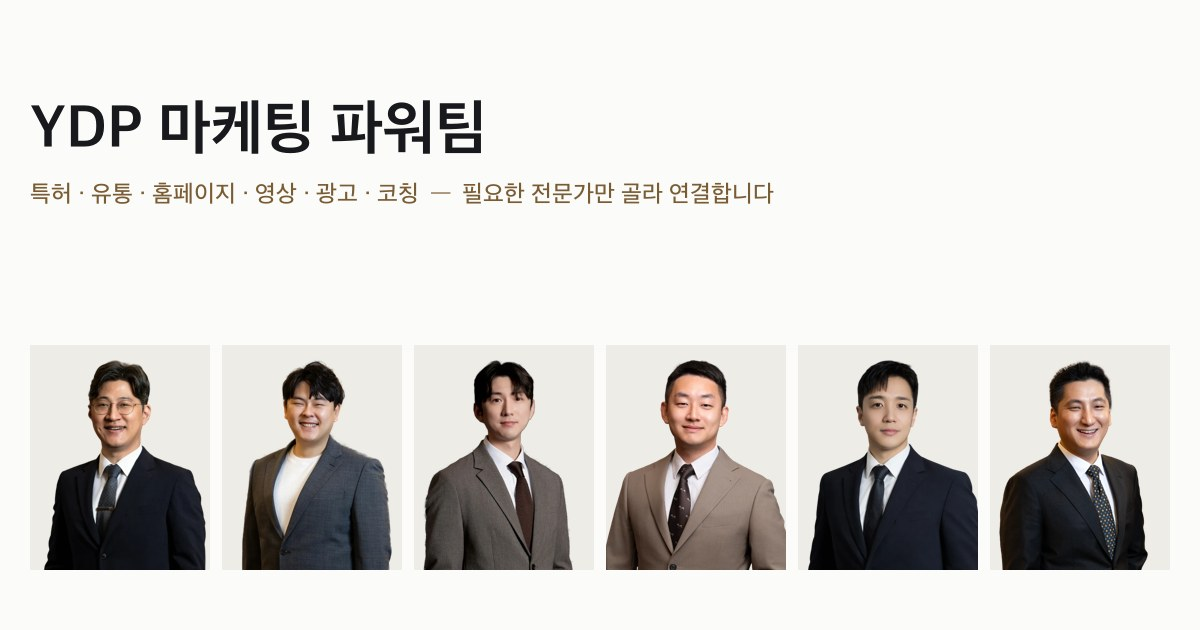
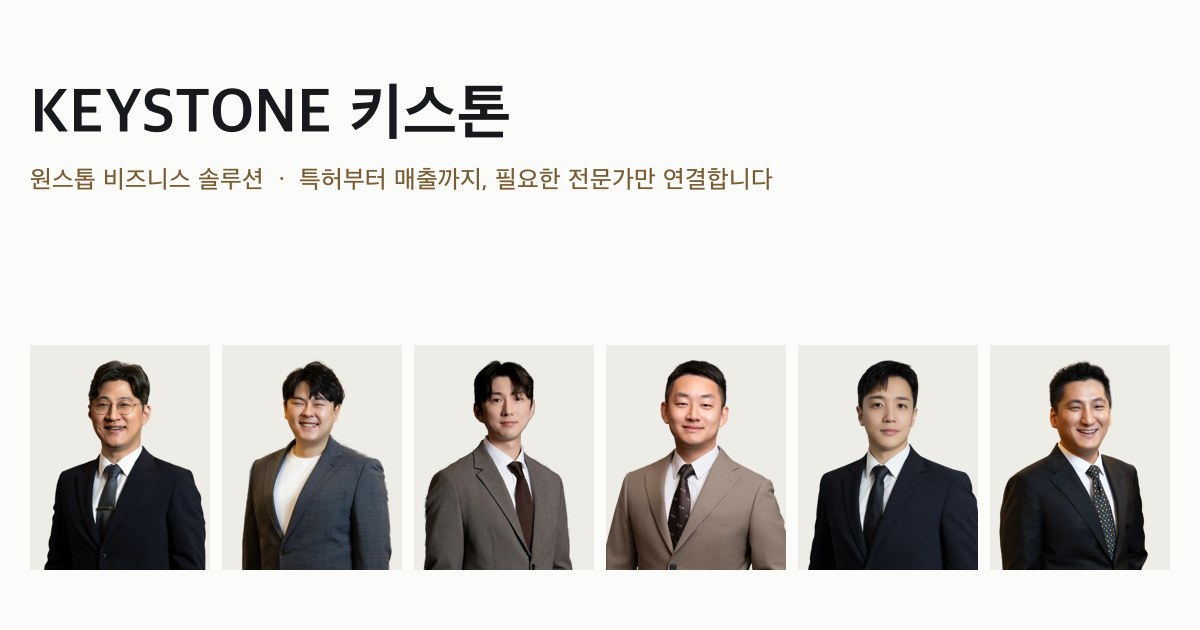
키스톤 KEYSTONE 리네이밍, 연락 버튼 그리드 정리

Changed region(s): [[0.0308, 0.1206, 0.6475, 0.3317]]

diff --git a/index.html b/index.html
@@ -3,15 +3,15 @@
 <head>
 <meta charset="utf-8">
 <meta name="viewport" content="width=device-width, initial-scale=1, viewport-fit=cover">
-<meta name="description" content="특허·유통·홈페이지·영상·광고·코칭. BNI YDP 프로페셔널 챕터 마케팅 파워팀 6인. 필요한 전문가만 골라 연결합니다.">
+<meta name="description" content="키스톤 KEYSTONE · 원스톱 비즈니스 솔루션. 특허·유통·홈페이지·영상·광고·코칭, 필요한 전문가만 골라 연결합니다.">
 <meta property="og:type" content="website">
-<meta property="og:title" content="YDP 마케팅 파워팀">
-<meta property="og:description" content="특허·유통·홈페이지·영상·광고·코칭. 필요한 전문가만 골라 연결합니다.">
+<meta property="og:title" content="키스톤 KEYSTONE · 원스톱 비즈니스 솔루션">
+<meta property="og:description" content="사업의 빠진 한 조각을 채웁니다. 특허·유통·홈페이지·영상·광고·코칭, 필요한 전문가만 골라 연결합니다.">
 <meta property="og:image" content="https://nj103024-art.github.io/ydp-powerteam/og.jpg">
 <meta property="og:url" content="https://nj103024-art.github.io/ydp-powerteam/">
 <meta name="twitter:card" content="summary_large_image">
 <style>:root{padding-top:env(safe-area-inset-top,0px);padding-bottom:env(safe-area-inset-bottom,0px)}body{margin:0}img{max-width:100%}[hidden]{display:none!important}</style>
-<title>YDP 마케팅 파워팀</title>
+<title>키스톤 KEYSTONE</title>
 <link rel="preconnect" href="https://fonts.googleapis.com">
 <link rel="preconnect" href="https://fonts.gstatic.com" crossorigin>
 <link rel="stylesheet" href="https://fonts.googleapis.com/css2?family=Hahmlet:wght@200;300;500;700&family=IBM+Plex+Sans+KR:wght@400;500;600&family=IBM+Plex+Mono:wght@400;500&display=swap">
@@ -232,6 +232,14 @@ section + section{border-top:1px solid var(--line)}
 .big-n{font-family:var(--f-display)!important;font-weight:200;font-size:30px!important;color:var(--ink)!important;letter-spacing:-.02em}
 .clients{display:grid;grid-template-columns:repeat(5,minmax(0,1fr));gap:1px;background:var(--line);border:1px solid var(--line)}
 .clients span{background:var(--paper);padding:18px 12px;text-align:center;font-weight:600;font-size:14px;color:var(--ink-2)}
+.cta{justify-items:stretch}
+.cta-grid{display:grid;grid-template-columns:repeat(3,minmax(0,1fr));gap:12px;margin-top:12px}
+.cta-grid a{display:grid;grid-template-columns:52px 1fr auto;gap:14px;align-items:center;border:1px solid var(--line);padding:14px 18px;text-decoration:none;border-radius:3px;transition:border-color .2s,background .2s}
+.cta-grid a:hover{border-color:var(--ink);background:var(--panel)}
+.cta-grid img{width:52px;height:52px;border-radius:50%;object-fit:cover;object-position:50% 12%;background:var(--studio)}
+.cta-grid b{font-family:var(--f-display);font-weight:500;font-size:17px;display:block}
+.cta-grid span{font-size:13px;color:var(--mute)}
+.cta-grid i{font-style:normal;color:var(--mute)}
 .chips{display:flex;flex-wrap:wrap;gap:8px}
 .chip{border:1px solid var(--line);padding:6px 12px;border-radius:999px;font-size:13px;color:var(--ink-2)}
 
@@ -261,6 +269,7 @@ footer .wrap{display:flex;flex-wrap:wrap;gap:8px 24px;justify-content:space-betw
 @media (max-width:900px){
   .pgrid,.packs,.needs{grid-template-columns:1fr 1fr}
   .cases{grid-template-columns:1fr}
+  .cta-grid{grid-template-columns:repeat(2,minmax(0,1fr))}
   .clients{grid-template-columns:repeat(3,minmax(0,1fr))}
   .awards,.vids,.feats{grid-template-columns:1fr 1fr}
   .stats{grid-template-columns:1fr 1fr}
@@ -274,7 +283,7 @@ footer .wrap{display:flex;flex-wrap:wrap;gap:8px 24px;justify-content:space-betw
   .flow::before{left:37px;right:auto;top:20px;bottom:20px;width:1px;height:auto}
   .step{grid-template-columns:76px 1fr;justify-items:start;text-align:left;column-gap:16px;row-gap:2px;padding:10px 0}
   .step .dot{grid-row:1/4}
-  .pgrid,.packs,.two,.pairs,.contact,.cases,.needs,.rec{grid-template-columns:1fr}
+  .pgrid,.packs,.two,.pairs,.contact,.cases,.needs,.rec,.cta-grid{grid-template-columns:1fr}
   .clients{grid-template-columns:repeat(2,minmax(0,1fr))}
   .proc,.steps{grid-template-columns:1fr 1fr}
   .m-hero{grid-template-columns:1fr}
@@ -289,12 +298,12 @@ footer .wrap{display:flex;flex-wrap:wrap;gap:8px 24px;justify-content:space-betw
 <body>
 <header class="bar">
   <div class="wrap">
-    <a class="brand" href="#home">YDP 마케팅 파워팀<small>BNI</small></a>
+    <a class="brand" href="#home">KEYSTONE 키스톤<small>원스톱 비즈니스 솔루션</small></a>
     <nav class="nav" id="nav" aria-label="파트너"></nav>
   </div>
 </header>
 <main id="app"></main>
-<footer><div class="wrap"><span>BNI YDP 프로페셔널 챕터 · 마케팅 파워팀</span><span>2026</span></div></footer>
+<footer><div class="wrap"><span>KEYSTONE 키스톤 · BNI YDP 프로페셔널 챕터 파워팀</span><span>2026</span></div></footer>
 
 <script>
 const M = {
@@ -396,9 +405,9 @@ function nav(cur){
 function home(){
   return `
   <div class="wrap hero">
-    <p class="eyebrow">BNI YDP Professional · Marketing Power Team</p>
-    <h1>사업에 필요한 여섯 전문가,<br><b>한 번의 미팅으로.</b></h1>
-    <p class="lead">특허, 유통, 홈페이지, 영상, 광고, 코칭. 대표님이 따로따로 찾던 여섯 파트너가 한 팀으로 움직입니다. 창구는 하나, 결과는 끝까지.</p>
+    <p class="eyebrow">KEYSTONE · 원스톱 비즈니스 솔루션</p>
+    <h1>사업의 빠진 한 조각,<br><b>키스톤이 채웁니다.</b></h1>
+    <p class="lead">키스톤은 아치 한가운데서 전체를 받치는 돌입니다. 특허, 유통, 홈페이지, 영상, 광고, 코칭까지. 여섯 전문가 중 지금 필요한 사람만 골라 연결합니다. 특허부터 매출까지, 창구는 하나입니다.</p>
     <div class="roster">${ORDER.map(k=>`<a href="#${k}"><div class="ph"><img src="${pimg(k)}" alt="${M[k].name} 대표"></div><b>${M[k].name}</b><span>${esc(M[k].short)}</span></a>`).join("")}</div>
   </div>
 
@@ -451,8 +460,8 @@ function home(){
   <section><div class="wrap cta">
     <p class="eyebrow">Start</p>
     <h2>어디서부터 시작할지 모르겠다면,<br><b>아무 대표에게나 연락하세요.</b></h2>
-    <p style="color:var(--ink-2);max-width:560px">누구에게 연락하셔도 파워팀 전체가 함께 봅니다. 각 대표 페이지에 연락처가 있습니다.</p>
-    <div class="links">${ORDER.map(k=>`<a class="btn ghost" href="#${k}">${M[k].name} · ${esc(M[k].short)}</a>`).join("")}</div>
+    <p style="color:var(--ink-2);max-width:560px">누구에게 연락하셔도 키스톤 전체가 함께 봅니다. 각 대표 페이지에 연락처가 있습니다.</p>
+    <div class="cta-grid">${ORDER.map(k=>`<a href="#${k}">${face(k)}<div><b>${M[k].name}</b><span>${esc(M[k].short)}</span></div><i>→</i></a>`).join("")}</div>
   </div></section>`;
 }
 
@@ -639,7 +648,7 @@ function render(){
   document.getElementById("app").innerHTML = key==="home"?home():member(key);
   nav(key);
   drawPicked();
-  document.title = key==="home"?"YDP 마케팅 파워팀":`${M[key].name} · YDP 마케팅 파워팀`;
+  document.title = key==="home"?"키스톤 KEYSTONE":`${M[key].name} · 키스톤 KEYSTONE`;
   const cur=document.querySelector('.nav [aria-current]'); if(cur) cur.scrollIntoView({block:"nearest",inline:"center"});
 }
 document.addEventListener("click",e=>{
